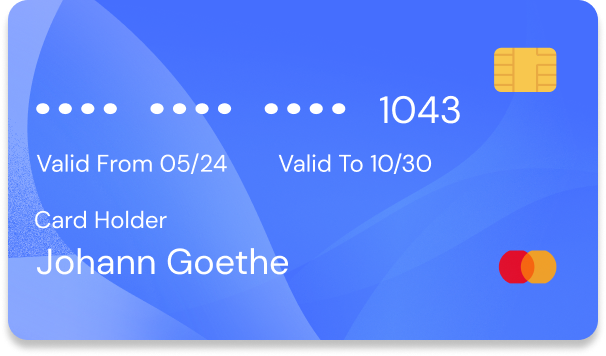
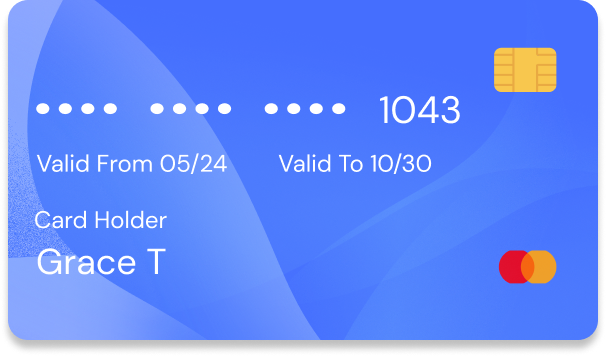
GTstylinglast

Changed region(s): [[0.0594, 0.6798, 0.4752, 0.7725]]

diff --git a/db/seeds.rb b/db/seeds.rb
@@ -1,5 +1,5 @@
 require 'faker'
-goethe = User.create(first_name: 'Johann', last_name: 'Goethe', email: 'goethe@gmail.com', password: 'secret')
+goethe = User.create(first_name: 'Grace', last_name: 'Thompson', email: 'grace@gmail.com', password: 'secret')
 
 restaurant = Category.create!(name: 'restaurant')
 restaurant_list = ["kfc",'mcdonald','nandos','starbucks','dominoes']

diff --git a/app/controllers/transactions_controller.rb b/app/controllers/transactions_controller.rb
@@ -24,7 +24,9 @@ class TransactionsController < ApplicationController
       end
       @monthly_spend = category.monthly_spend
       @category = category
+      # raise
     end
+
 
     if params[:period].present?
       user_transactions = search_by_days(user_transactions, params[:period])

diff --git a/config/routes.rb b/config/routes.rb
@@ -4,6 +4,7 @@ Rails.application.routes.draw do
 
   get "up" => "rails/health#show", as: :rails_health_check
   get 'analytics', to: 'pages#analytics', as: 'analytics'
+  get 'cards', to: 'pages#cards', as: 'cards'
 
   # Defines the root path route ("/")
   # root "posts#index"

diff --git a/app/controllers/pages_controller.rb b/app/controllers/pages_controller.rb
@@ -4,6 +4,9 @@ class PagesController < ApplicationController
   def home
   end
 
+  def cards
+  end
+
   def analytics
     user_transactions = current_user.transactions
     @transactions = []
